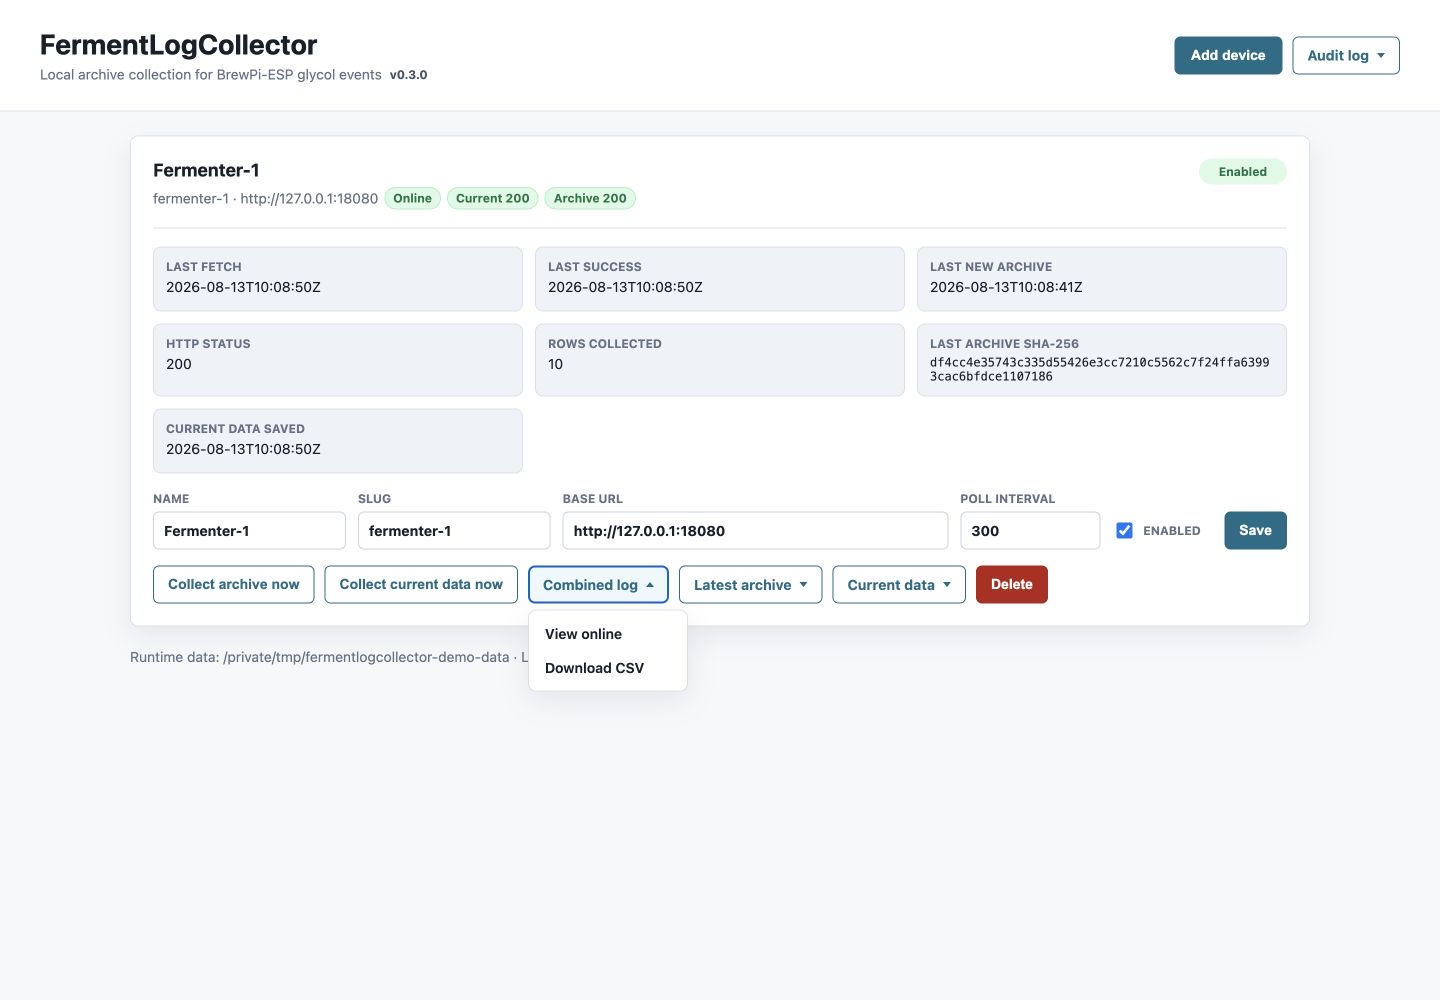
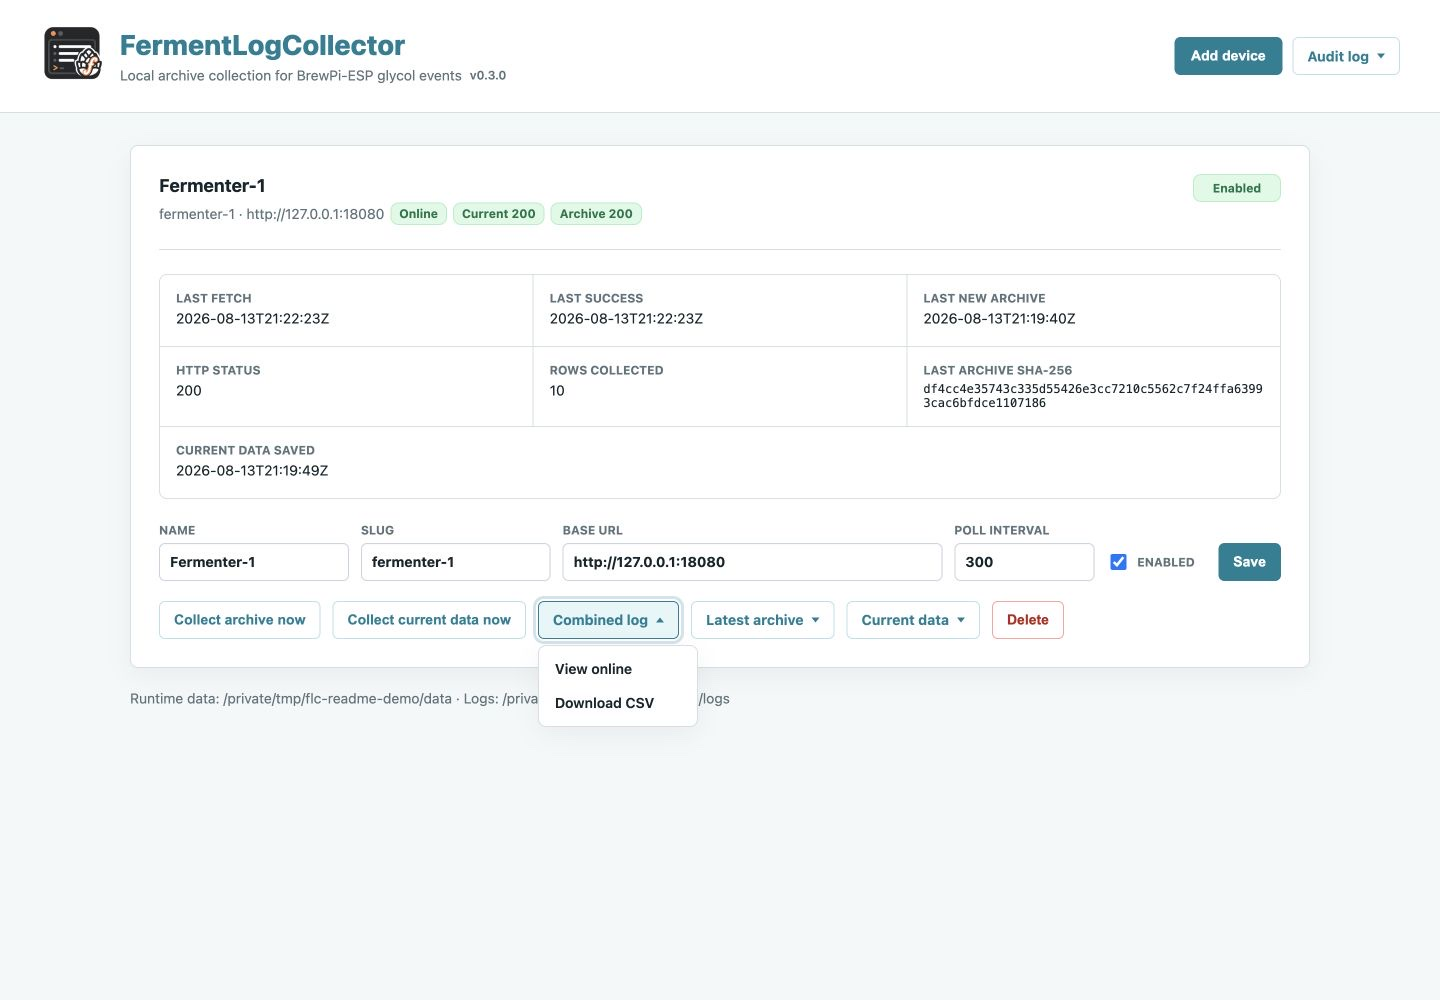
Update README for v0.3.0

diff --git a/README.md b/README.md
@@ -4,8 +4,8 @@ Small local FastAPI service that collects BrewPi-ESP glycol log archive segments
 and makes them available from a web dashboard.
 
 The collector polls each enabled device at `/glycol_log.archived.csv`, hashes the
-CSV with SHA-256, deduplicates already-seen archives, stores the raw archive, and
-appends only new data rows to a long per-device combined CSV.
+CSV with SHA-256, skips already-seen archives, stores each previously unseen raw
+archive, and appends its data rows to a long per-device combined CSV.
 
 ![FermentLogCollector dashboard](docs/images/dashboard.jpg)
 
